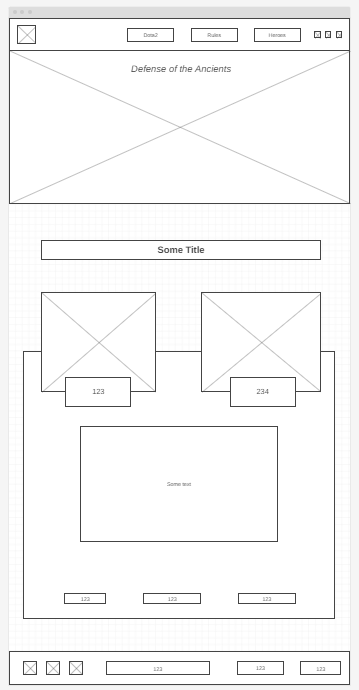
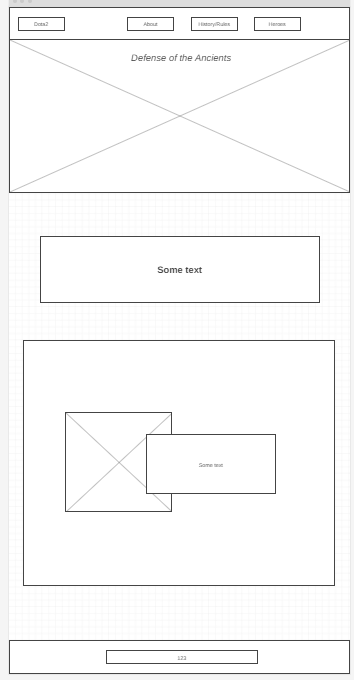
images

diff --git a/project/siteplan.html b/project/siteplan.html
@@ -14,7 +14,7 @@
 
     <link rel="preconnect" href="https://fonts.googleapis.com">
     <link rel="preconnect" href="https://fonts.gstatic.com" crossorigin>
-    <link href='https://fonts.googleapis.com/css2?family=Croissant+One&family=Inclusive+Sans&display=swap' rel='stylesheet'>
+    <link href='https://fonts.googleapis.com/css?family=Sansita' rel='stylesheet'>
   </head>
 
   <body>
@@ -67,8 +67,8 @@
 
       <h3>Typography</h3>
 
-      <h4>Heading Font: Croissant One, sans-serif</h4>
-      <h4>Paragraph Font: Inclusive Sans, Helvetica, sans-serif</h4>
+      <h4>Heading Font: Sansita</h4>
+      <h4>Paragraph Font: Sansita, sans-serif</h4>
       <h3>Normal paragraph example</h3>
       <p>
         Lorem ipsum dolor sit amet, consectetur adipiscing elit, sed do eiusmod
@@ -132,18 +132,18 @@
 
       <h3>Home</h3>
       <p>[Dota2 page wireframe: https://wireframe.cc/EpxgN0]</p>
-      <img src="https://wireframe.cc/EpxgN0" alt="Dota2 : https://wireframe.cc/EpxgN0">
+      <img src="images/wframe1.png" alt="Dota2 : https://wireframe.cc/EpxgN0">
 
       <h3>Rules</h3>
       <p>[Rules: https://wireframe.cc/gi9pgc]</p>
       <img
-        src="https://wireframe.cc/gi9pgc"
+        src="images/wframe2.png"
         alt="Ruless Hystory wireframe: https://wireframe.cc/gi9pgc">
 
       <h3>Heroes</h3>
       <p>[Heroes : https://wireframe.cc/MrQDyc]</p>
       <img
-        src="https://wireframe.cc/MrQDy"
+        src="images/wframe3.png"
         alt="Heroes wireframe: https://wireframe.cc/MrQDyc">
     </main>
   </body>
